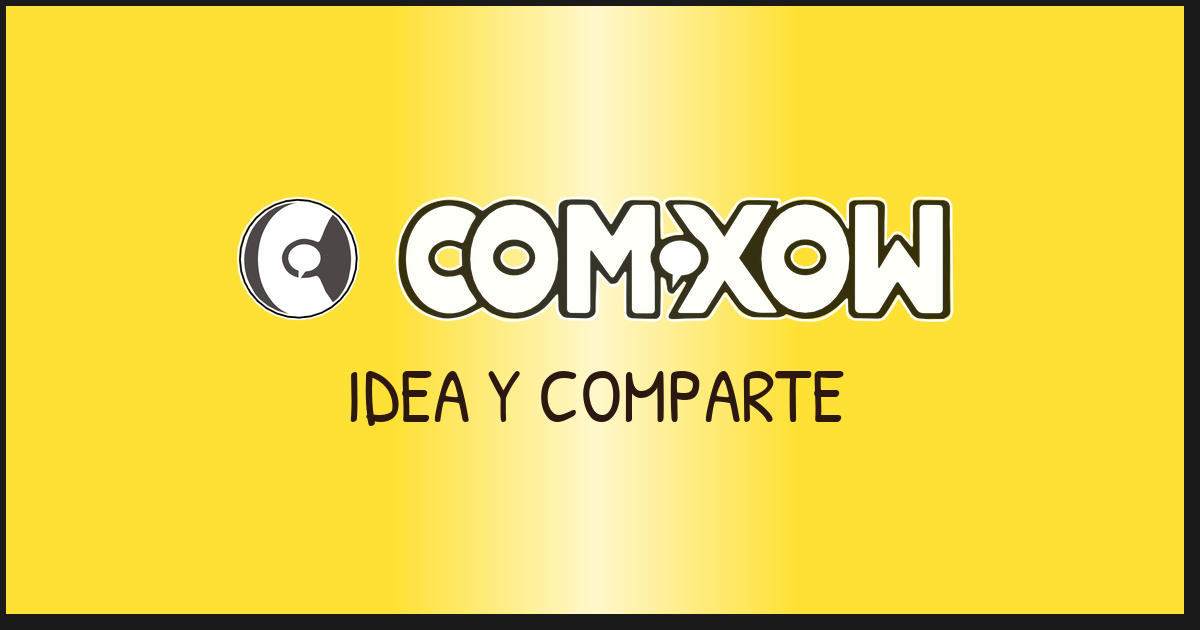
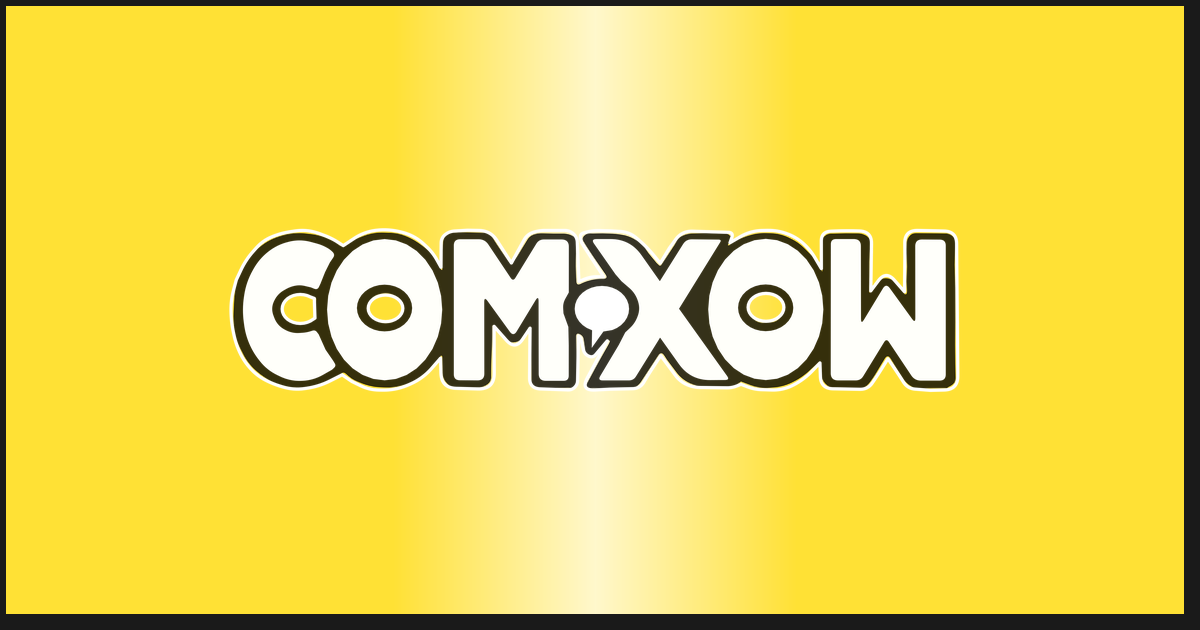
c

Changed region(s): [[0.185, 0.3016, 0.8017, 0.6937]]

diff --git a/reader/index.html b/reader/index.html
@@ -37,21 +37,19 @@
   <meta property="og:type"        content="website">
   <meta property="og:site_name"   content="ComiXou">
   <meta property="og:title"       content="ComiXou — IDEA Y COMPARTE">
-  <meta property="og:description" content="Descubre esta creación en ComiXou, plataforma de arte visual e ilustración">
-  <meta property="og:image"       content="https://comixow.com/og-card.png">
+  <meta property="og:image"       content="https://comixow.com/og-card.png?v=30.73">
   <meta property="og:image:width"  content="1200">
   <meta property="og:image:height" content="630">
   <meta property="og:url"         content="https://comixow.com/reader/">
   <meta name="twitter:card"       content="summary_large_image">
   <meta name="twitter:title"      content="ComiXou — IDEA Y COMPARTE">
-  <meta name="twitter:description" content="Abre esta creación en ComiXou">
-  <meta name="twitter:image"      content="https://comixow.com/og-card.png">
+  <meta name="twitter:image"      content="https://comixow.com/og-card.png?v=30.73">
 
   <!-- Fuentes autoalojadas (WOFF2) — sin dependencia de conectividad -->
   <link rel="stylesheet" href="../fonts/fonts.css">
   <!-- Fallback Google Fonts -->
   <link href="https://fonts.googleapis.com/css2?family=Bangers&family=Bebas+Neue&family=Comic+Neue:wght@400;700&family=Lora:ital,wght@0,400;0,700;1,400&family=Oswald:wght@400;700&family=Patrick+Hand&family=Permanent+Marker&family=Press+Start+2P&display=swap" rel="stylesheet" media="print" onload="this.media='all'">
-  <link rel="stylesheet" href="reader.css?v=30.72">
+  <link rel="stylesheet" href="reader.css?v=30.73">
 </head>
 <script>
   if ('serviceWorker' in navigator)
@@ -62,7 +60,7 @@
   <!-- CARGA -->
   <div id="loadingScreen" class="loading-screen">
     <div class="loading-logo">
-      <img src="../loading-icon.png?v=30.72" alt="Cargando" style="height:40px;width:auto;">
+      <img src="../loading-icon.png?v=30.73" alt="Cargando" style="height:40px;width:auto;">
       <img src="../logo.svg" alt="ComiXou" style="height:40px;width:auto;">
     </div>
     <div id="loadingMsg" class="loading-msg">Cargando obra...</div>
@@ -101,15 +99,15 @@
     <div id="readerToast" class="reader-toast"></div>
 
     <!-- Versión — desaparece tras 4s -->
-    <div id="readerVersion" style="position:fixed;bottom:8px;left:8px;font-size:11px;color:rgba(255,255,255,0.7);background:rgba(0,0,0,0.45);padding:2px 7px;border-radius:8px;z-index:9999;pointer-events:none;">v30.72</div>
+    <div id="readerVersion" style="position:fixed;bottom:8px;left:8px;font-size:11px;color:rgba(255,255,255,0.7);background:rgba(0,0,0,0.45);padding:2px 7px;border-radius:8px;z-index:9999;pointer-events:none;">v30.73</div>
 
   </div>
 
   <script src="../js/pako.min.js"></script>
   <script src="../js/UPNG.js"></script>
-  <script src="../js/fullscreen.js?v=30.72"></script>
+  <script src="../js/fullscreen.js?v=30.73"></script>
   <script src="../js/logo-data.js"></script>
   <script src="../js/icon-data.js"></script>
-  <script src="reader.js?v=30.72"></script>
+  <script src="reader.js?v=30.73"></script>
 </body>
 </html>

diff --git a/js/views.js b/js/views.js
@@ -55,7 +55,7 @@ Router.register('home', {
       </div>
     <main class="home-list" id="comicsGrid">
     </main>
-    <footer class="app-version">v35.16</footer>
+    <footer class="app-version">v35.17</footer>
   `,
   init: () => { HomeView_init(); },
   destroy: () => { if (window._homeStoreCleanup) { window._homeStoreCleanup(); window._homeStoreCleanup = null; } }

diff --git a/sw.js b/sw.js
@@ -27,7 +27,7 @@
  *     https://trix-editor.org/  ·  https://github.com/basecamp/trix
  */
 /* ComXow Service Worker — SPA */
-const CACHE = 'comixow-v35-16';
+const CACHE = 'comixow-v35-17';
 
 // Solo cacheamos assets estáticos que no cambian con cada versión (imágenes)
 // JS, CSS y HTML son siempre network-first para garantizar actualizaciones inmediatas